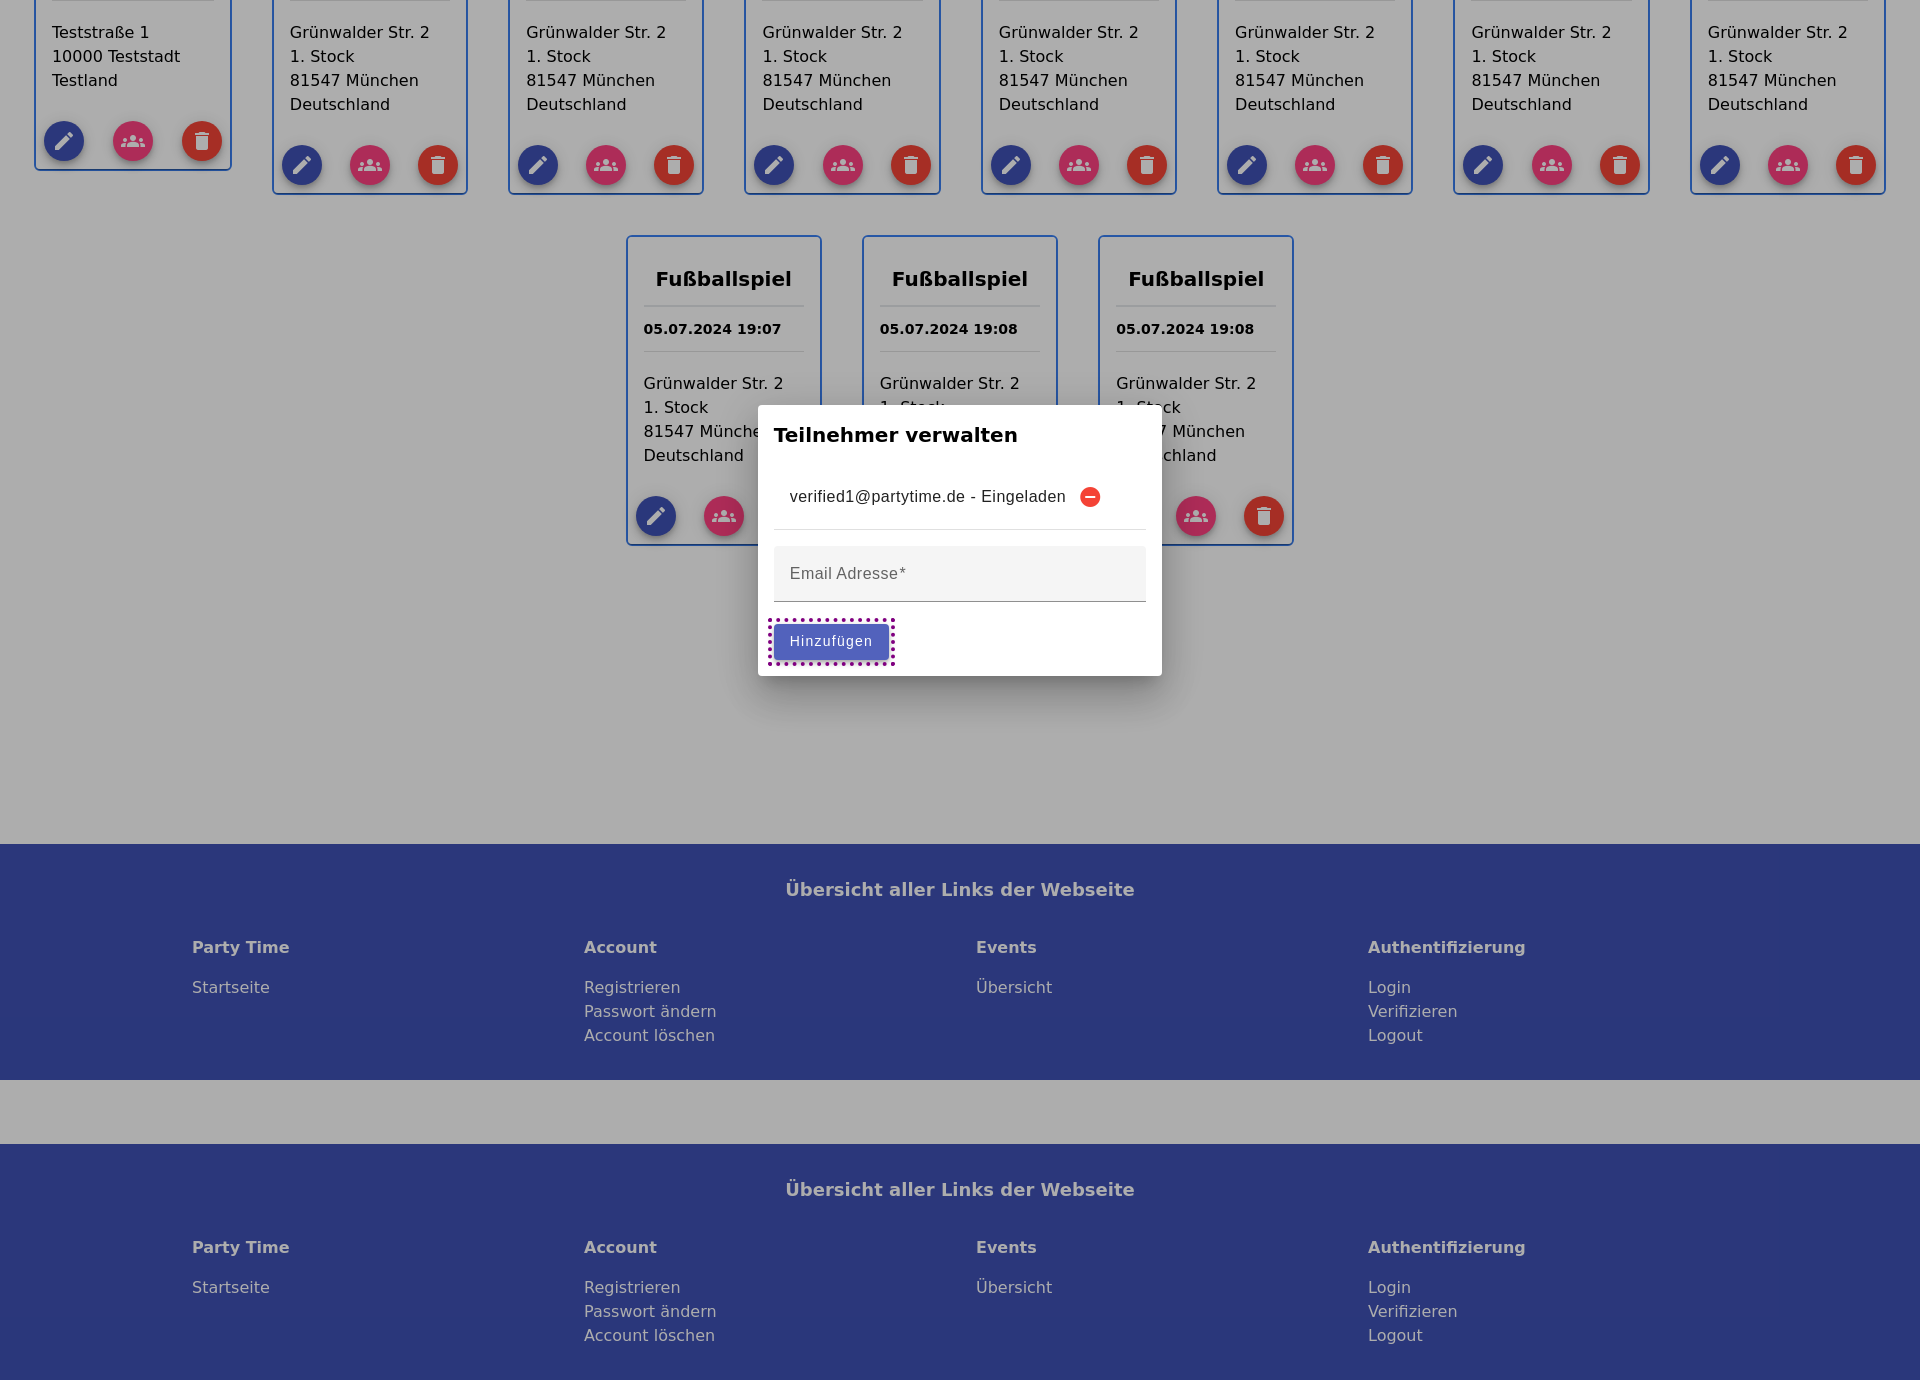
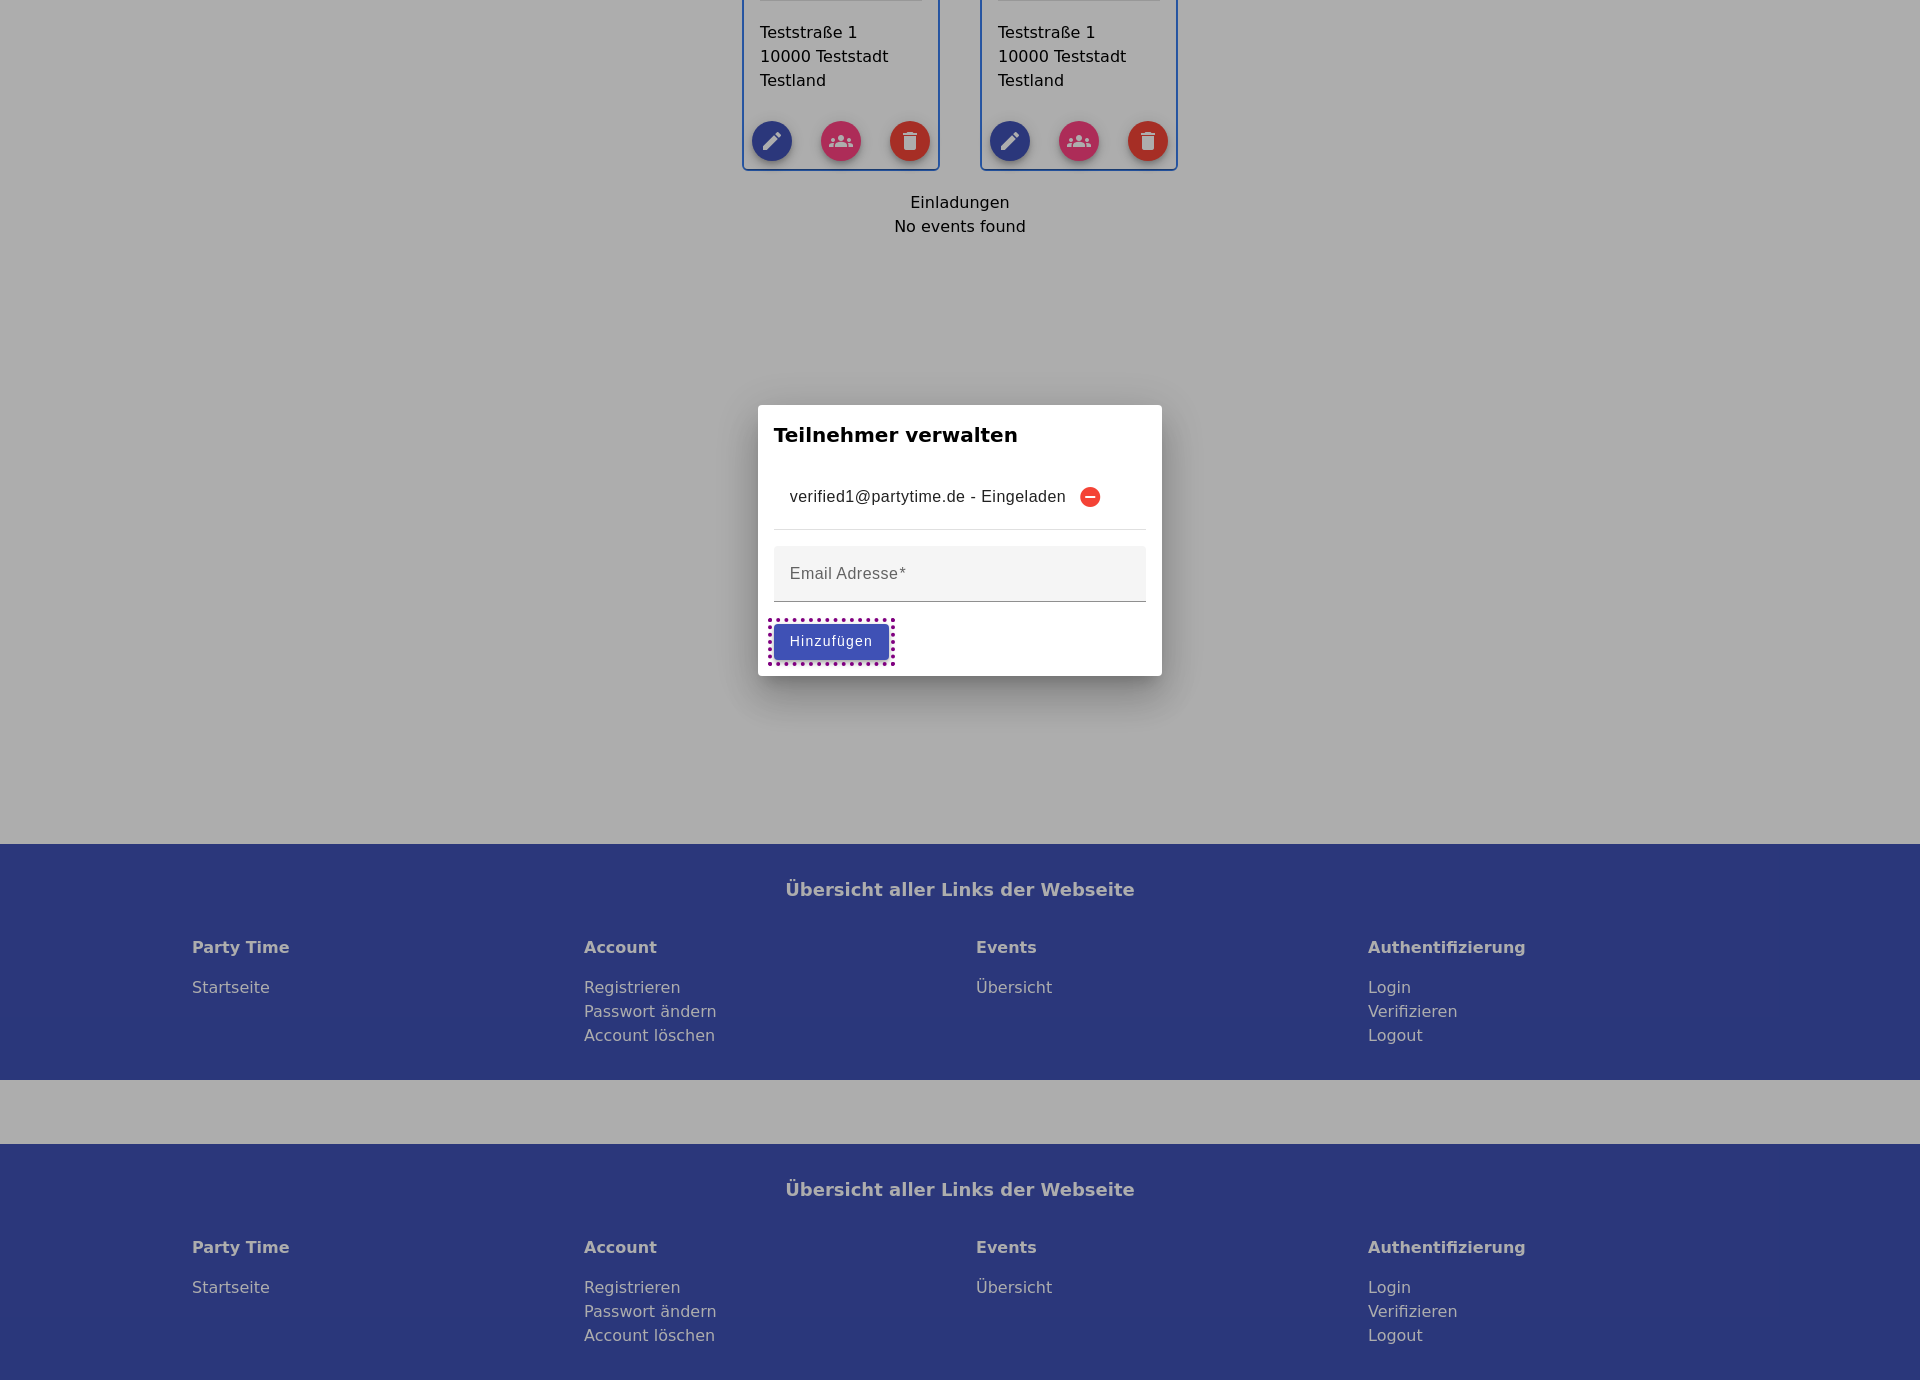
format repo

diff --git a/apps/party-time-frontend-17/-e2e/src/e2e/F016.cy.ts b/apps/party-time-frontend-17/-e2e/src/e2e/F016.cy.ts
@@ -4,31 +4,26 @@ const requirement = 'F016';
 const eventsSummary = 'Events überblicken';
 describe(eventsSummary, () => {
   beforeEach(() => {
-       cy.viewport(1920, 1080);
+    cy.viewport(1920, 1080);
     cy.login();
     cy.visit('/events');
-  
   });
 
   const ownEventsListPageTest =
     'Die Plattform sollte eine Liste von allen eigenen Events auf einer Seite bereitstellen.';
   it(ownEventsListPageTest, () => {
-    cy.screenshot(
-      getScreenshotPath(requirement, eventsSummary, "1"),
-      {
-        overwrite: true,
-      }
-    );
+    cy.screenshot(getScreenshotPath(requirement, eventsSummary, '1'), {
+      overwrite: true,
+      capture: 'viewport',
+    });
   });
 
   const eventSummary =
     'Die Liste sollte die wichtigsten Informationen über das Event, wie den Namen, das Datum, die Uhrzeit und den Veranstaltungsort, enthalten.';
   it(eventSummary, () => {
-cy.screenshot(
-      getScreenshotPath(requirement, eventsSummary, "2"),
-      {
-        overwrite: true,
-      }
-    );
+    cy.screenshot(getScreenshotPath(requirement, eventsSummary, '2'), {
+      overwrite: true,
+      capture: 'viewport',
+    });
   });
 });

diff --git a/apps/party-time-frontend-17/-e2e/src/e2e/F013.cy.ts b/apps/party-time-frontend-17/-e2e/src/e2e/F013.cy.ts
@@ -14,6 +14,7 @@ describe(passwordChange, () => {
       getScreenshotPath(requirement, passwordChange, confirmPassword),
       {
         overwrite: true,
+        capture: 'viewport',
       }
     );
   });
@@ -23,6 +24,7 @@ describe(passwordChange, () => {
   it(newPassword, () => {
     cy.screenshot(getScreenshotPath(requirement, passwordChange, newPassword), {
       overwrite: true,
+      capture: 'viewport',
     });
   });
 
@@ -33,6 +35,7 @@ describe(passwordChange, () => {
       getScreenshotPath(requirement, passwordChange, newPasswordConstraints),
       {
         overwrite: true,
+        capture: 'viewport',
       }
     );
   });
@@ -44,6 +47,7 @@ describe(passwordChange, () => {
       getScreenshotPath(requirement, passwordChange, passwordChangeLogout),
       {
         overwrite: true,
+        capture: 'viewport',
       }
     );
   });

diff --git a/apps/party-time-frontend-17/-e2e/src/e2e/F002.cy.ts b/apps/party-time-frontend-17/-e2e/src/e2e/F002.cy.ts
@@ -10,6 +10,7 @@ describe(editEvents, () => {
     cy.visit('/events');
     cy.screenshot(getScreenshotPath(requirement, editEvents, '1'), {
       overwrite: true,
+      capture: 'viewport',
     });
   });
 
@@ -21,10 +22,12 @@ describe(editEvents, () => {
     cy.get('[data-cy="event-name-input"]').type('Fußballspiel 2');
     cy.screenshot(getScreenshotPath(requirement, editEvents, '2'), {
       overwrite: true,
+      capture: 'viewport',
     });
     cy.get('[data-cy="save-button"]').click();
     cy.screenshot(getScreenshotPath(requirement, editEvents, '3'), {
       overwrite: true,
+      capture: 'viewport',
     });
   });
 });

diff --git a/apps/party-time-frontend-17/-e2e/src/e2e/F004.cy.ts b/apps/party-time-frontend-17/-e2e/src/e2e/F004.cy.ts
@@ -16,11 +16,13 @@ describe(inviteGuests, () => {
     cy.get('[data-cy="participants-button"]').first().click();
     cy.screenshot(getScreenshotPath(requirement, inviteGuests, '1'), {
       overwrite: true,
+      capture: 'viewport',
     });
     cy.get('[data-cy="email-input"]').type('verified1@partytime.de');
     cy.get('[data-cy="add-participant-button"]').click();
     cy.screenshot(getScreenshotPath(requirement, inviteGuests, '2'), {
       overwrite: true,
+      capture: 'viewport',
     });
   });
 

diff --git a/apps/party-time-frontend-17/-e2e/src/e2e/F003.cy.ts b/apps/party-time-frontend-17/-e2e/src/e2e/F003.cy.ts
@@ -10,6 +10,7 @@ describe(deleteEvents, () => {
     cy.visit('/events');
     cy.screenshot(getScreenshotPath(requirement, deleteEvents, '1'), {
       overwrite: true,
+      capture: 'viewport',
     });
   });
 
@@ -19,6 +20,7 @@ describe(deleteEvents, () => {
     cy.get('[data-cy="delete-button"]').first().click();
     cy.screenshot(getScreenshotPath(requirement, deleteEvents, '2'), {
       overwrite: true,
+      capture: 'viewport',
     });
   });
 });

diff --git a/apps/party-time-frontend-17/-e2e/src/e2e/F008.cy.ts b/apps/party-time-frontend-17/-e2e/src/e2e/F008.cy.ts
@@ -14,10 +14,12 @@ describe(eventAcceptanceGroup, () => {
   it(acceptInvitation, () => {
     cy.screenshot(getScreenshotPath(requirement, eventAcceptanceGroup, '1'), {
       overwrite: true,
+      capture: 'viewport',
     });
     cy.get('[data-cy="participate-button"]').first().click();
     cy.screenshot(getScreenshotPath(requirement, eventAcceptanceGroup, '1'), {
       overwrite: true,
+      capture: 'viewport',
     });
   });
 });

diff --git a/apps/party-time-frontend-17/-e2e/src/e2e/F007.cy.ts b/apps/party-time-frontend-17/-e2e/src/e2e/F007.cy.ts
@@ -16,6 +16,7 @@ describe(invitationReceivedGroup, () => {
       getScreenshotPath(requirement, invitationReceivedGroup, '1'),
       {
         overwrite: true,
+        capture: 'viewport',
       }
     );
   });
@@ -26,6 +27,7 @@ describe(invitationReceivedGroup, () => {
       getScreenshotPath(requirement, invitationReceivedGroup, '2'),
       {
         overwrite: true,
+        capture: 'viewport',
       }
     );
   });

diff --git a/apps/party-time-frontend-17/-e2e/src/e2e/F012.cy.ts b/apps/party-time-frontend-17/-e2e/src/e2e/F012.cy.ts
@@ -14,6 +14,7 @@ describe(signOutGroup, () => {
       getScreenshotPath(requirement, signOutGroup, logoutLinkPresence),
       {
         overwrite: true,
+        capture: 'viewport',
       }
     );
   });
@@ -25,6 +26,7 @@ describe(signOutGroup, () => {
       getScreenshotPath(requirement, signOutGroup, unavailableDataAfterLogout),
       {
         overwrite: true,
+        capture: 'viewport',
       }
     );
   });

diff --git a/apps/party-time-frontend-17/-e2e/src/e2e/F015.cy.ts b/apps/party-time-frontend-17/-e2e/src/e2e/F015.cy.ts
@@ -14,6 +14,7 @@ describe(deleteAccount, () => {
       getScreenshotPath(requirement, deleteAccount, accountDeletionSuccessTest),
       {
         overwrite: true,
+        capture: 'viewport',
       }
     );
   });
@@ -28,6 +29,7 @@ describe(deleteAccount, () => {
       ),
       {
         overwrite: true,
+        capture: 'viewport',
       }
     );
   });

diff --git a/apps/party-time-frontend-17/-e2e/src/e2e/F006.cy.ts b/apps/party-time-frontend-17/-e2e/src/e2e/F006.cy.ts
@@ -15,6 +15,7 @@ describe(participantsOverview, () => {
     cy.get('[data-cy="participants-button"]').first().click();
     cy.screenshot(getScreenshotPath(requirement, participantsOverview, '1'), {
       overwrite: true,
+      capture: 'viewport',
     });
   });
 });

diff --git a/apps/party-time-frontend-17/-e2e/src/e2e/F009.cy.ts b/apps/party-time-frontend-17/-e2e/src/e2e/F009.cy.ts
@@ -15,6 +15,7 @@ describe(eventCancelation, () => {
     cy.get('[data-cy="decline-button"]').first().click();
     cy.screenshot(getScreenshotPath(requirement, eventCancelation, '1'), {
       overwrite: true,
+      capture: 'viewport',
     });
   });
 });

diff --git a/apps/party-time-frontend-17/-e2e/src/e2e/F018.cy.ts b/apps/party-time-frontend-17/-e2e/src/e2e/F018.cy.ts
@@ -15,6 +15,7 @@ describe(eventDirections, () => {
     cy.get('[data-cy="map-button"]').first().click();
     cy.screenshot(getScreenshotPath(requirement, eventDirections, '1'), {
       overwrite: true,
+      capture: 'viewport',
     });
   });
 });
